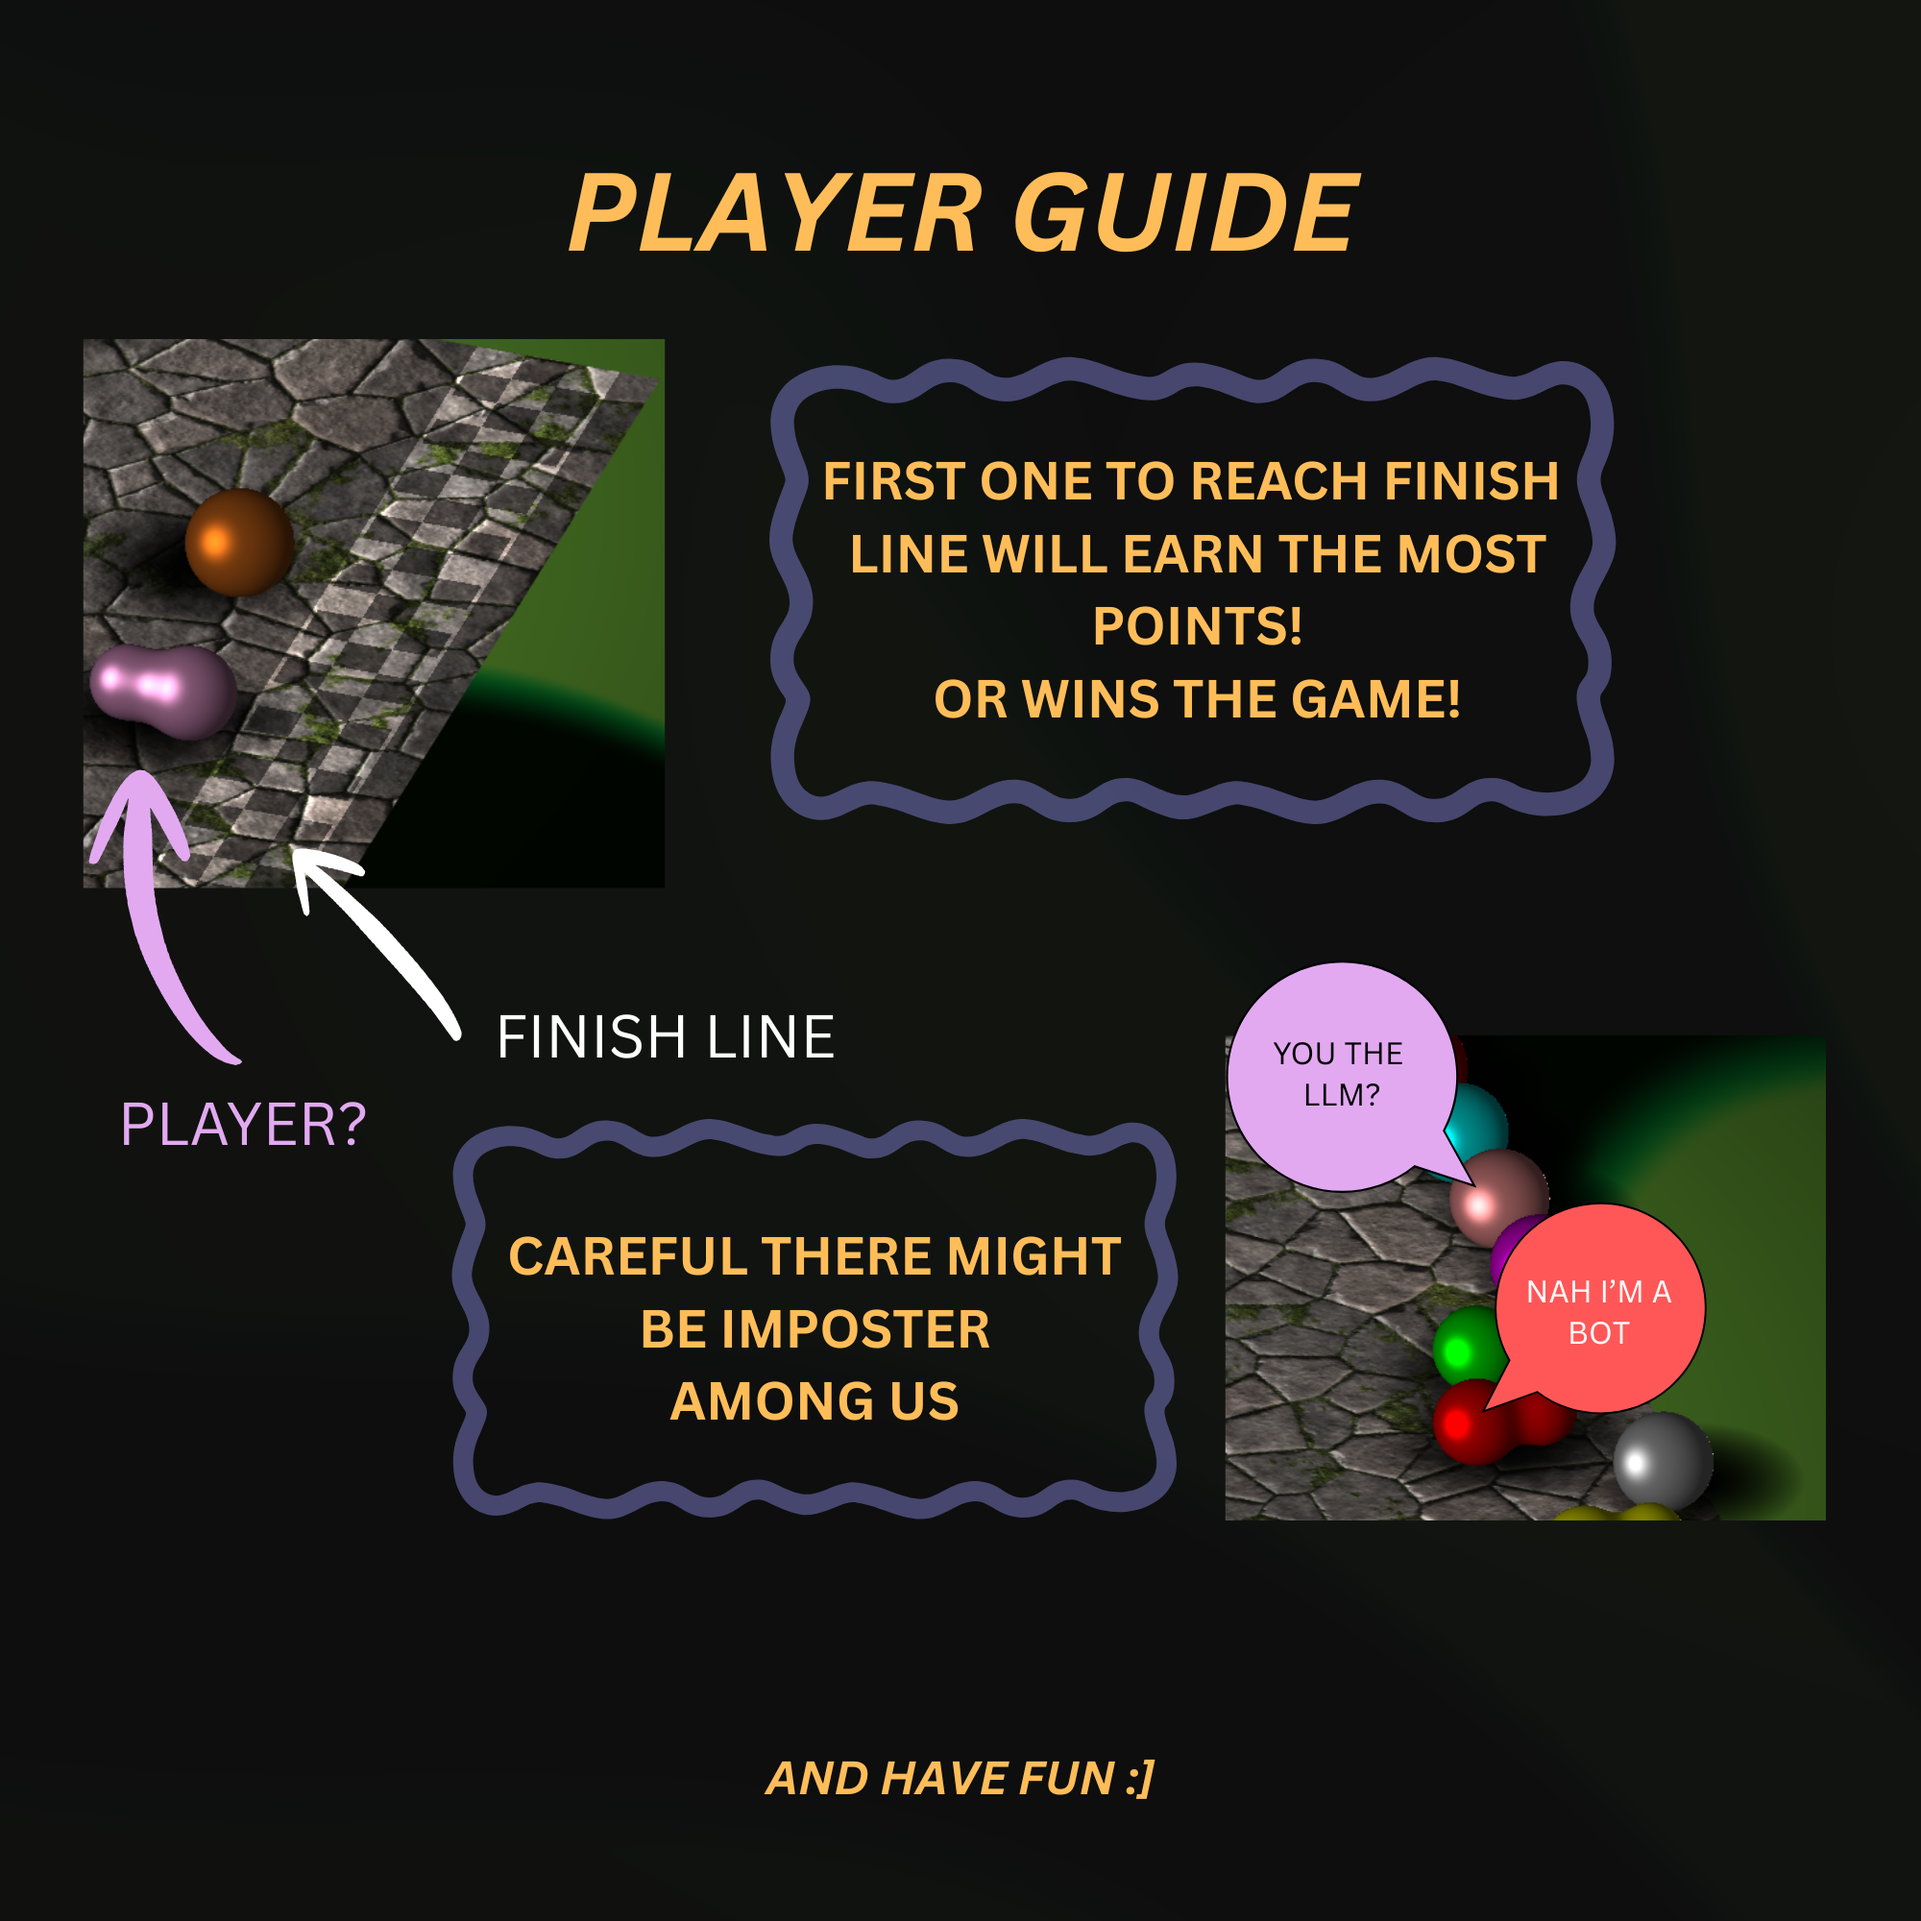
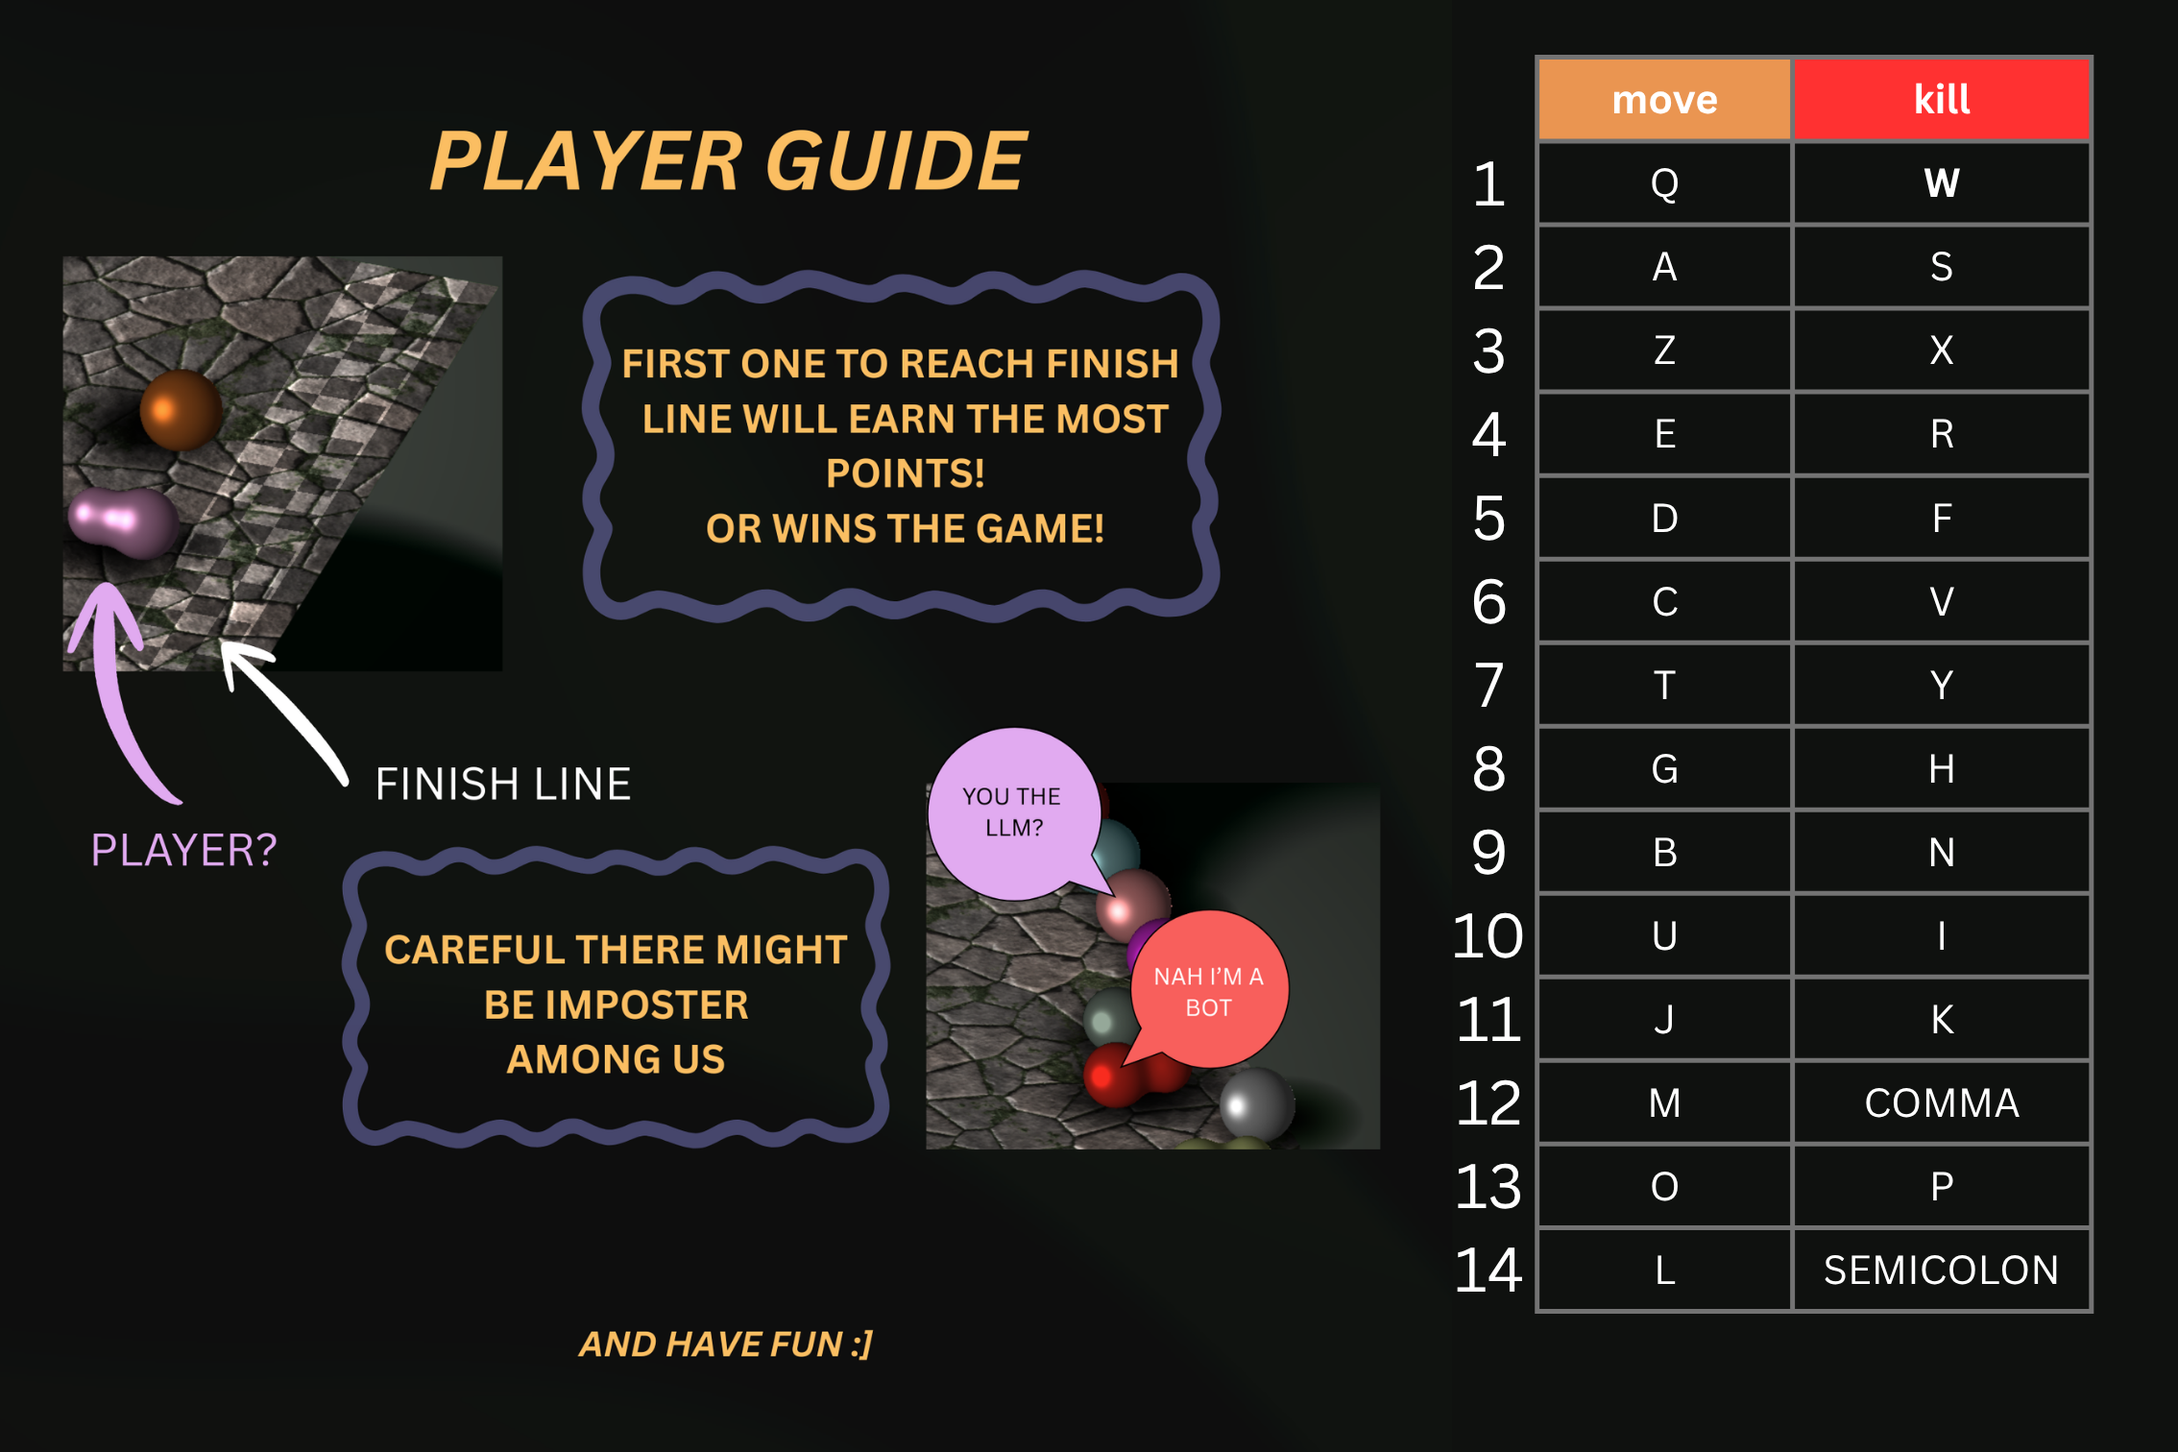
added player guide to the player

Changed region(s): [[0.031, 0.0311, 0.961, 0.9325], [0.248, 0.9015, 0.589, 0.9325]]

diff --git a/src/main.cpp b/src/main.cpp
@@ -123,7 +123,8 @@ enum class GameState
     PLAYING,
     GAME_OVER,
     TOURNAMENT_STANDINGS,
-    TOURNAMENT_END
+    TOURNAMENT_END,
+    GUIDE
 };
 
 struct Keypair
@@ -241,6 +242,13 @@ int main()
     GLuint normalMap = LoadTexture((std::string(ROOT_FOLDER) + "/img/normal.png").c_str(), false);
     GLuint roughMap = LoadTexture((std::string(ROOT_FOLDER) + "/img/roughness.png").c_str(), false);
     GLuint aoMap = LoadTexture((std::string(ROOT_FOLDER) + "/img/ao.png").c_str(), false);
+    GLuint guideTexture = LoadTexture((std::string(ROOT_FOLDER) + "/img/player_guide.png").c_str(), false);
+
+    int guideWidth, guideHeight;
+    glBindTexture(GL_TEXTURE_2D, guideTexture);
+    glGetTexLevelParameteriv(GL_TEXTURE_2D, 0, GL_TEXTURE_WIDTH, &guideWidth);
+    glGetTexLevelParameteriv(GL_TEXTURE_2D, 0, GL_TEXTURE_HEIGHT, &guideHeight);
+    glBindTexture(GL_TEXTURE_2D, 0);
 
     glActiveTexture(GL_TEXTURE0);
     glBindTexture(GL_TEXTURE_2D, albedoMap);
@@ -250,6 +258,8 @@ int main()
     glBindTexture(GL_TEXTURE_2D, roughMap);
     glActiveTexture(GL_TEXTURE3);
     glBindTexture(GL_TEXTURE_2D, aoMap);
+
+   
 
     std::unique_ptr<Plane> plane;
     std::vector<Player> players;
@@ -768,6 +778,14 @@ int main()
 
             ImGui::Dummy(ImVec2(0.0f, 15.0f * uiScale));
 
+            ImGui::SetCursorPosX((windowSize.x - buttonWidth) * 0.5f);
+            if (ImGui::Button("How to play", ImVec2(buttonWidth, buttonHeight)))
+            {
+                gameState = GameState::GUIDE;
+            }
+
+            ImGui::Dummy(ImVec2(0.0f, 15.0f * uiScale));
+
             // --- 5. Quit Button ---
             ImGui::SetCursorPosX((windowSize.x - buttonWidth) * 0.5f);
             if (ImGui::Button("Quit", ImVec2(buttonWidth, buttonHeight)))
@@ -777,6 +795,64 @@ int main()
 
             ImGui::SetWindowFontScale(1.0f); // Reset scale
             ImGui::End();
+        }
+
+        if (gameState == GameState::GUIDE)
+        {
+            ImGuiWindowFlags window_flags = ImGuiWindowFlags_NoTitleBar | ImGuiWindowFlags_NoResize |
+                ImGuiWindowFlags_NoMove | ImGuiWindowFlags_NoCollapse |
+                ImGuiWindowFlags_NoScrollbar;
+
+            ImGuiViewport* viewport = ImGui::GetMainViewport();
+            ImGui::SetNextWindowPos(viewport->WorkPos);
+            ImGui::SetNextWindowSize(viewport->WorkSize);
+
+            // Push a black background style for this window specifically
+            ImGui::PushStyleColor(ImGuiCol_WindowBg, ImVec4(0, 0, 0, 1));
+            ImGui::Begin("Guide Screen", nullptr, window_flags);
+
+            ImVec2 windowSize = ImGui::GetWindowSize();
+            float uiScale = std::max(1.0f, windowSize.y / 540.0f);
+
+            // --- 1. SCALE IMAGE TO FILL SCREEN ---
+            // Calculate scale to fit the image perfectly to the window
+            float scale = std::min(windowSize.x / (float)guideWidth, windowSize.y / (float)guideHeight);
+            float displayWidth = (float)guideWidth * scale;
+            float displayHeight = (float)guideHeight * scale;
+
+            // Center the image in the remaining space
+            float imagePosX = (windowSize.x - displayWidth) * 0.5f;
+            float imagePosY = (windowSize.y - displayHeight) * 0.5f;
+
+            ImGui::SetCursorPos(ImVec2(imagePosX, imagePosY));
+
+            // Draw image (with the UV flip fix for OpenGL)
+            ImGui::Image((void*)(intptr_t)guideTexture,
+                ImVec2(displayWidth, displayHeight),
+                ImVec2(0, 1),
+                ImVec2(1, 0));
+
+            // --- 2. FLOATING BACK BUTTON ---
+            // We move the button to the top-left corner so it's out of the way
+            ImGui::SetCursorPos(ImVec2(20.0f * uiScale, 20.0f * uiScale));
+
+            // Set text size for the button
+            ImGui::SetWindowFontScale(uiScale * 0.8f); // Slightly smaller than menu buttons but readable
+
+            float btnWidth = 180.0f * uiScale;
+            float btnHeight = 40.0f * uiScale;
+
+            // Make the button slightly transparent or distinct so it looks like an overlay
+            ImGui::PushStyleColor(ImGuiCol_Button, ImVec4(0.2f, 0.2f, 0.2f, 0.7f));
+            if (ImGui::Button("< Back to Menu", ImVec2(btnWidth, btnHeight)))
+            {
+                gameState = GameState::MENU;
+            }
+            ImGui::PopStyleColor();
+
+            ImGui::SetWindowFontScale(1.0f); // Reset scale
+            ImGui::End();
+            ImGui::PopStyleColor(); // Pop WindowBg
         }
 
         if (gameState == GameState::TOURNAMENT_STANDINGS)
